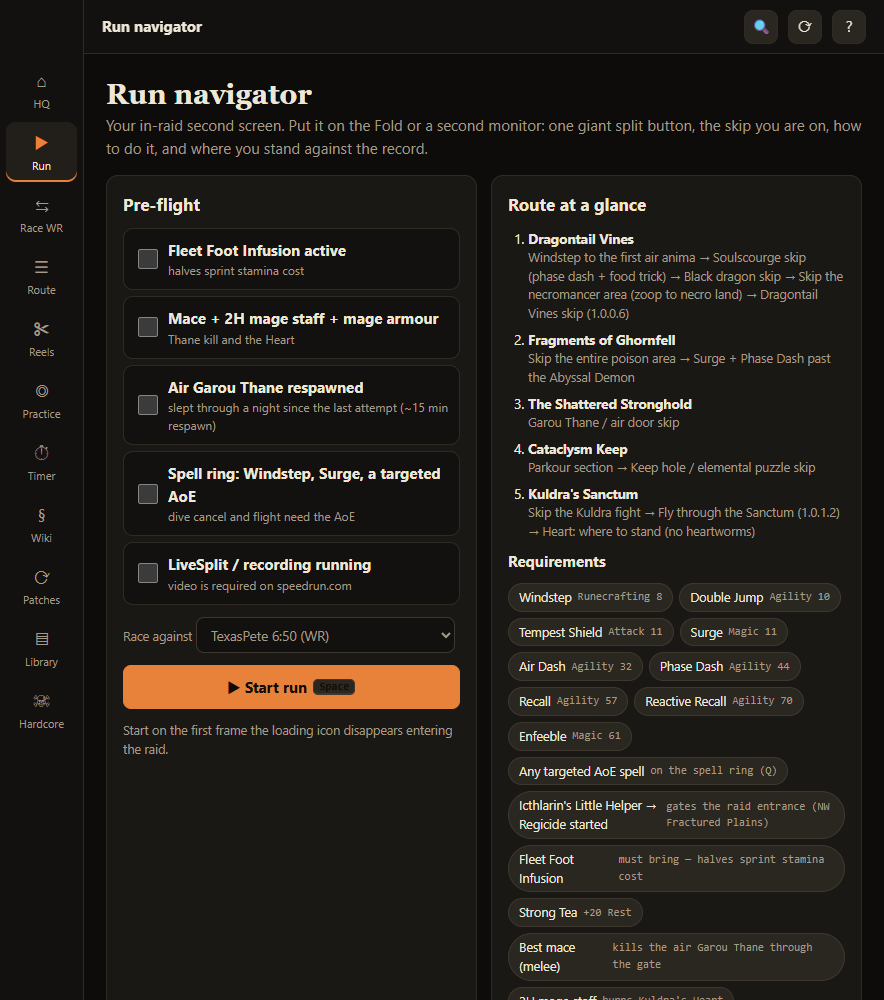
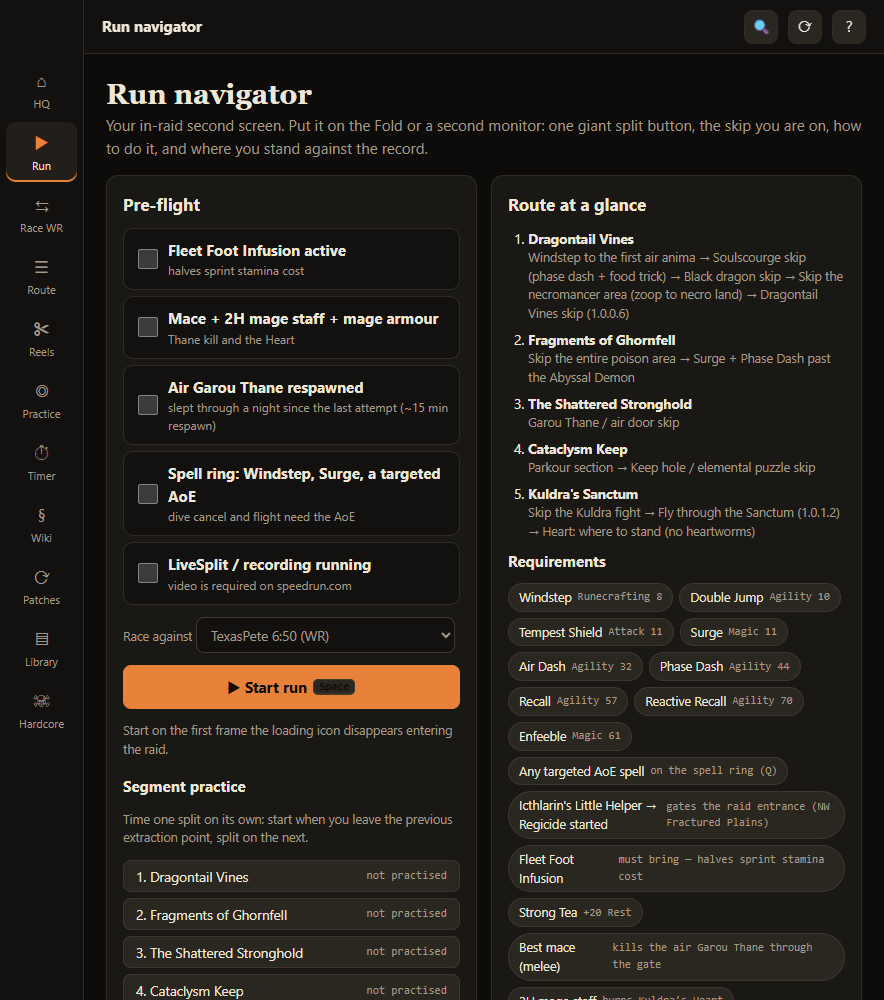
Segment practice in the run navigator, toast at top, robust v1 migration

Changed region(s): [[0.1222, 0.775, 0.5192, 1.0], [0.3971, 0.868, 0.5192, 1.0]]

diff --git a/js/views/run.js b/js/views/run.js
@@ -4,7 +4,8 @@ import { h, fmtRun, fmtDelta, isTyping, toast, fill } from '../lib/util.js';
 import { SplitTimer, recordAttempt, segmentsOf } from '../lib/timer.js';
 import { Reel } from '../lib/reel.js';
 import { keepAwake } from '../lib/pwa.js';
-import { SPLITS } from '../data/raid.js';
+import { SPLITS, RUNS, communityBest } from '../data/raid.js';
+import { model } from '../lib/sync.js';
 import { ROUTE, REQUIREMENTS, GEAR } from '../data/route.js';
 import { comparisons } from './timer.js';
 import * as store from '../lib/store.js';
@@ -45,10 +46,69 @@ export function mount(root) {
         h('div', { class: 'card' }, h('h2', {}, 'Pre-flight'), h('div', { class: 'grid', style: { gap: '6px' } }, items),
           h('div', { class: 'row', style: { marginTop: '12px' } }, h('label', { class: 'note' }, 'Race against ', cmpSel)),
           h('button', { class: 'btn pri big', style: { width: '100%', marginTop: '12px', justifyContent: 'center' }, onclick: () => { timer.start(); } }, '▶ Start run  ', h('kbd', {}, 'Space')),
-          h('p', { class: 'note' }, 'Start on the first frame the loading icon disappears entering the raid.')),
+          h('p', { class: 'note' }, 'Start on the first frame the loading icon disappears entering the raid.'),
+          h('h3', { style: { marginTop: '16px' } }, 'Segment practice'),
+          h('p', { class: 'note' }, 'Time one split on its own: start when you leave the previous extraction point, split on the next.'),
+          h('div', { class: 'grid', style: { gap: '6px' } }, SPLITS.map((sp, k) => { const st = segStats(k); return h('button', { class: 'btn', style: { justifyContent: 'space-between' }, onclick: () => paintSeg(k) }, h('span', {}, `${k + 1}. ${sp.name}`), h('small', { class: 'mono muted' }, st.n ? `best ${fmtRun(st.best, 1)} · ${st.n} tries` : 'not practised')); }))),
         h('div', { class: 'card' }, h('h2', {}, 'Route at a glance'),
           h('ol', { class: 'glance' }, ROUTE.map((sp, k) => h('li', {}, h('b', {}, SPLITS[k].name), h('div', { class: 'note' }, sp.skips.filter(s => s.status !== 'patched').map(s => s.name).join(' → '))))),
           h('h3', {}, 'Requirements'), h('div', { class: 'chips' }, REQUIREMENTS.map(r => h('a', { class: 'chip', href: `#/wiki?id=${r.wiki}` }, r.name, h('small', {}, r.need.split(' · ')[0])))))));
+  }
+
+  // ------------------------------------------------------------ segment practice
+  function segStats(k) {
+    const log = ((store.get().segPractice || {})[k]) || [];
+    const times = log.map(x => x.t);
+    const last10 = times.slice(-10);
+    return { n: times.length, best: times.length ? Math.min(...times) : null, avg: last10.length ? last10.reduce((a, b) => a + b, 0) / last10.length : null, last: times.slice(-12) };
+  }
+  let segTimer = null;
+  function paintSeg(k) {
+    phase = 'seg'; keepAwake(true);
+    const c = cmp(), ref = c.splits[k] - (k ? c.splits[k - 1] : 0);
+    const cname = c.name.replace(' (WR)', '');
+    const sk = skipsFor(k);
+    const clock = h('div', { class: 'rn-clock mono' }, '0:00.00');
+    const hist = h('div', { class: 'rn-list' });
+    const big = h('button', { class: 'rn-big' });
+    const paintHist = () => {
+      const st = segStats(k);
+      fill(hist, h('div', { class: 'rn-row cur' }, h('span', {}, 'Best'), h('span', { class: 'mono' }, fmtRun(st.best, 2)), h('span', { class: 'mono ' + (st.best != null && st.best <= ref ? 'good' : 'bad') }, st.best != null ? fmtDelta(st.best - ref) : '')),
+        h('div', { class: 'rn-row' }, h('span', {}, 'Avg last 10'), h('span', { class: 'mono' }, fmtRun(st.avg, 2)), h('span', {})),
+        h('div', { class: 'rn-row' }, h('span', {}, cname), h('span', { class: 'mono' }, fmtRun(ref, 2)), h('span', {})),
+        ...st.last.slice().reverse().map(t => h('div', { class: 'rn-row done' }, h('span', {}, ''), h('span', { class: 'mono' }, fmtRun(t, 2)), h('span', { class: 'mono ' + (t <= ref ? 'good' : 'bad') }, fmtDelta(t - ref)))));
+    };
+    const cue = k === N - 1 ? 'on the cut to black' : 'on Extraction point unlocked';
+    const paintBig = () => fill(big, h('b', {}, segTimer.phase === 'idle' ? 'START' : segTimer.phase === 'done' ? 'AGAIN' : 'SPLIT'), h('span', {}, segTimer.phase === 'running' ? cue : `${SPLITS[k].name}: leave the previous extraction point`));
+    segTimer = new SplitTimer(1, { onChange: type => {
+      if (type === 'finish') {
+        const t = segTimer.splits[0];
+        const prevBest = segStats(k).best;
+        store.update(s => { s.segPractice ||= {}; (s.segPractice[k] ||= []).push({ t, at: Date.now() }); });
+        const pb = prevBest == null || t < prevBest;
+        toast(pb ? `Practice best ${fmtRun(t, 2)}` : `${fmtRun(t, 2)} (${fmtDelta(t - ref)} vs ${cname})`, pb ? 'gold' : t <= ref ? 'good' : '');
+        if (navigator.vibrate) navigator.vibrate(40);
+        paintHist();
+      }
+      paintBig();
+    } });
+    big.addEventListener('click', () => { if (segTimer.phase === 'done') segTimer.reset(); else segTimer.split(); });
+    const s0 = sk[0];
+    fill(wrap, h('div', { class: 'rn' },
+      h('div', { class: 'rn-head' }, h('div', {}, h('div', { class: 'rn-split' }, h('span', { class: 'pill' }, 'Segment practice'), ' ', h('b', {}, SPLITS[k].name)), h('div', { class: 'rn-delta mono muted' }, `${cname} did it in ${fmtRun(ref, 1)}`)), clock),
+      h('div', { class: 'rn-body' },
+        h('div', { class: 'rn-main' }, h('div', { class: 'rn-skip' }, h('div', { class: 'note' }, 'Skips in this split'), h('ol', {}, sk.map(x => h('li', {}, h('a', { href: `#/practice?skip=${x.id}` }, x.name))))),
+          h('div', { class: 'row', style: { marginTop: '8px' } }, h('button', { class: 'btn', onclick: () => { segTimer = null; paintPre(); } }, '‹ Back'), k > 0 ? h('button', { class: 'btn', onclick: () => paintSeg(k - 1) }, '‹ Prev split') : null, k < N - 1 ? h('button', { class: 'btn', onclick: () => paintSeg(k + 1) }, 'Next split ›') : null)),
+        h('div', { class: 'rn-side' }, el.clipHost = h('div', { class: 'rn-clip' + (showClip ? '' : ' hidden') }), hist)),
+      big));
+    paintHist(); paintBig();
+    // reference = the fastest recorded version of this split
+    const best = communityBest(RUNS.map(r => model(r, store.get().runs[r.key])))[k];
+    const br = model(RUNS.find(r => r.key === best.run), store.get().runs[best.run]);
+    if (showClip) { destroyClip(); playClip({ vid: br.vid, in: +(br.offset + best.from).toFixed(2), out: +(br.offset + best.to).toFixed(2), label: `${best.runner} ${SPLITS[k].short}` }); }
+    void s0;
+    const f = () => { if (phase !== 'seg' || !segTimer) return; const t = segTimer.now(); clock.textContent = fmtRun(t, 2); clock.classList.toggle('behind', t > ref); raf = requestAnimationFrame(f); };
+    cancelAnimationFrame(raf); raf = requestAnimationFrame(f);
   }
 
   // ------------------------------------------------------------ running
@@ -123,6 +183,7 @@ export function mount(root) {
   function moveSkip(d) { const sk = skipsFor(Math.min(timer.index, N - 1)); skipIdx = Math.max(0, Math.min(sk.length - 1, skipIdx + d)); paintSplit(); }
   function toggleClip() { showClip = !showClip; store.update(s => (s.prefs.runClip = showClip)); el.clipHost.classList.toggle('hidden', !showClip); if (!showClip) destroyClip(); else paintSplit(); }
   function playClip(c) {
+    if (reel && !el.clipHost.contains(reel.stage)) destroyClip();
     if (!reel) { reel = new Reel(el.clipHost); reel.decks.forEach(d => (d.muteLock = true)); reel.loopClip = true; }
     if (reel.clip && reel.clip.vid === c.vid && reel.clip.in === c.in) return;
     reel.setClips([{ ...c }], { keepPosition: false }); reel.i = -1; reel.playClip(0);
@@ -164,6 +225,8 @@ export function mount(root) {
   const onKey = e => {
     if (isTyping(e) || e.ctrlKey || e.metaKey || e.altKey || document.querySelector('dialog[open]')) return;
     const k = e.code;
+    if (phase === 'seg' && (k === 'Space' || k === 'Numpad1')) { e.preventDefault(); if (segTimer.phase === 'done') segTimer.reset(); else segTimer.split(); return; }
+    if (phase === 'seg' && (k === 'KeyR' || k === 'Numpad3')) { segTimer.reset(); return; }
     if (k === 'Space' || k === 'Numpad1') { e.preventDefault(); if (phase === 'done') { timer.reset(); paintPre(); } else timer.split(); }
     else if (phase !== 'run') return;
     else if (k === 'KeyN' || k === 'ArrowRight') moveSkip(1);

diff --git a/js/lib/store.js b/js/lib/store.js
@@ -10,6 +10,7 @@ const defaults = () => ({
   customRuns: [],    // your own run videos: { key, runner, label, vid, offset, splits, time }
   clips: {},         // clipKey -> { in, out } user corrections to library / route clips
   reels: [],         // user reels: { id, name, clips:[{vid,in,out,label}] }
+  segPractice: {},   // splitIndex -> [{t, at}] single-segment practice times
   practice: {},      // skipId -> { log:[{t, ok}], lost: seconds lost when it fails (user estimate) }
   timer: { pb: null, best: [], attempts: [], comparison: 'tp650', runs: 0, resets: 0, imported: null },
   hardcore: { done: {}, phase: 'p0' },
@@ -31,12 +32,11 @@ export function load() {
   try {
     const raw = localStorage.getItem(KEY);
     if (raw) state = migrate(JSON.parse(raw));
-    else {
-      const old = localStorage.getItem(LEGACY);
-      if (old) {
-        const o = JSON.parse(old);
-        state.hardcore = { done: o.done || {}, phase: o.phase || 'p0' };
-      }
+    // v1 checklist progress: import whenever the new store has none of its own.
+    const old = localStorage.getItem(LEGACY);
+    if (old && !Object.keys(state.hardcore.done || {}).length) {
+      const o = JSON.parse(old);
+      state.hardcore = { done: o.done || {}, phase: o.phase || 'p0' };
     }
   } catch { state = defaults(); }
   return state;

diff --git a/tests/app.spec.js b/tests/app.spec.js
@@ -250,3 +250,15 @@ test('command palette jumps to a skip drill', async ({ page }) => {
   await expect(page).toHaveURL(/practice\?skip=s-thane/);
   await expect(page.locator('.drill.cur')).toContainText('Garou Thane');
 });
+
+test('segment practice times one split and keeps history', async ({ page }) => {
+  await page.setViewportSize({ width: 884, height: 1000 });
+  await page.goto(`${M}#/run`);
+  await page.getByRole('button', { name: /3\. The Shattered Stronghold/ }).click();
+  await expect(page.locator('.rn-split')).toContainText('Segment practice');
+  for (const _ of [0, 1]) { await page.locator('.rn-big').click(); await page.waitForTimeout(200); await page.locator('.rn-big').click(); await page.waitForTimeout(100); await page.locator('.rn-big').click(); }
+  await page.waitForTimeout(200);
+  const log = await page.evaluate(() => JSON.parse(localStorage.getItem('dw_lab_v2')).segPractice[2]);
+  expect(log.length).toBe(2);
+  await page.screenshot({ path: 'docs/screens/fold/run-segment.png' });
+});

diff --git a/css/app.css b/css/app.css
@@ -425,3 +425,6 @@ dialog.palette input { width: 100%; font-size: 16px; padding: 12px; }
   .wide-only { display: none !important; }
   .narrow-only { display: grid !important; margin-top: 14px; }
 }
+#toast { top: 62px; bottom: auto !important; transform: translate(-50%, -20px); }
+#toast.show { transform: translate(-50%, 0); }
+.rn-body { align-items: start; }
